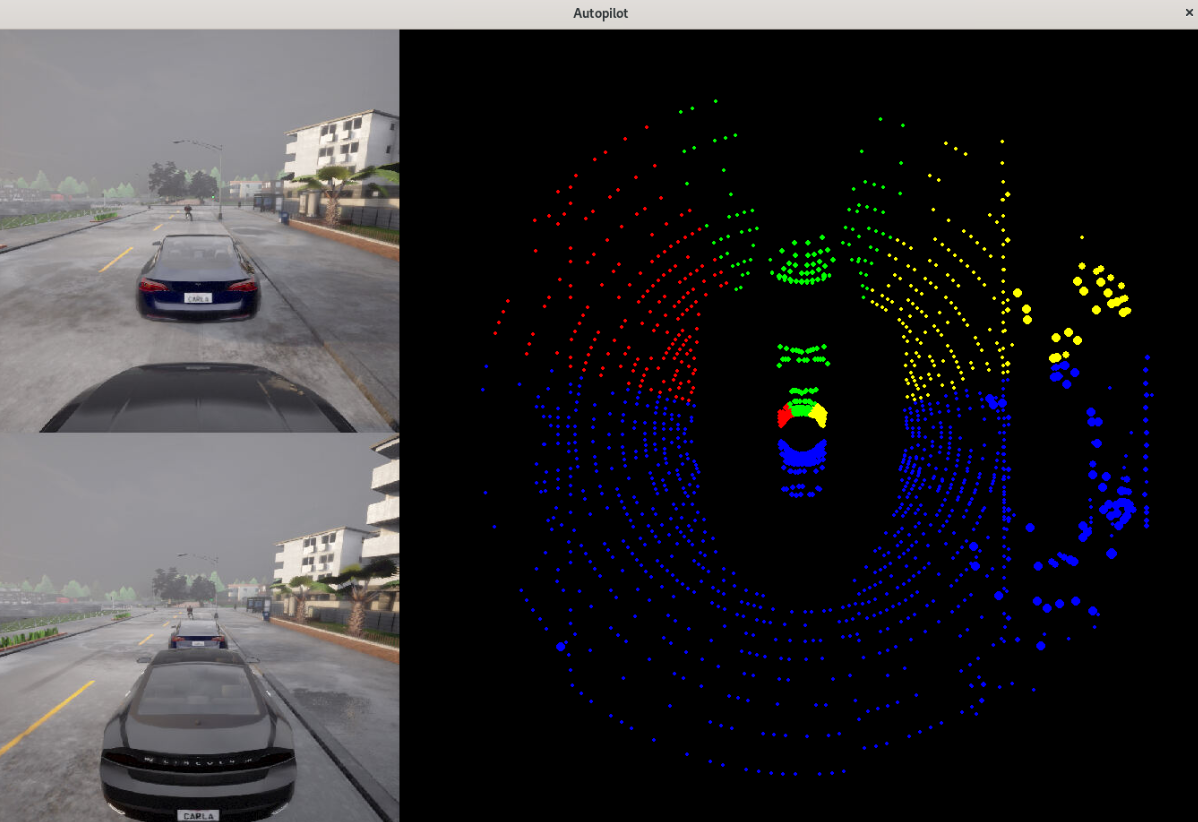
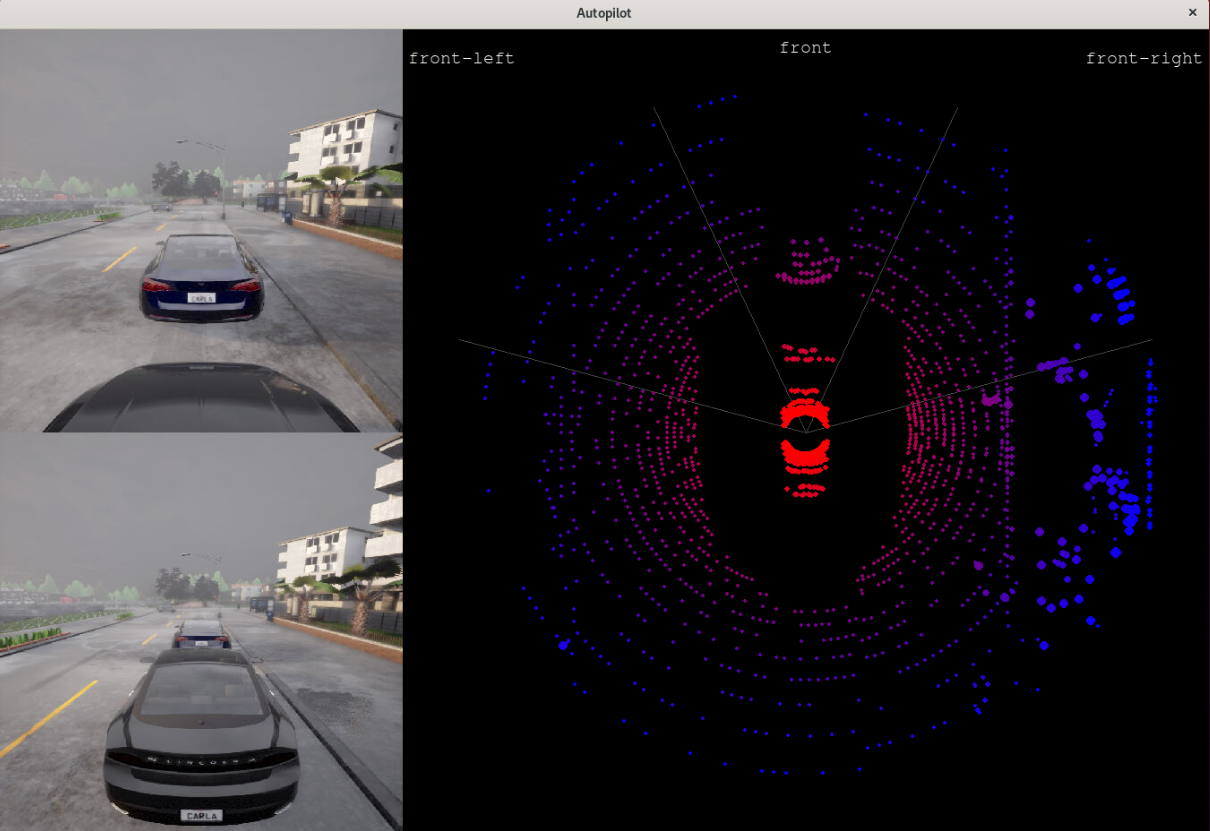
blog

diff --git a/src/configcarla.py b/src/configcarla.py
@@ -233,13 +233,13 @@ class Lidar(Sensor):
             self.screen.blit(self.sub_screen, self.rect)
 
     def obstacle_front_right(self):
-        return self.std_min >= self.std_zones[2]
+        return self.std_min >= self.std_zones[RIGHT]
 
     def obstacle_front_left(self):
-        return self.std_min >= self.std_zones[0]
+        return self.std_min >= self.std_zones[LEFT]
     
     def obstacle_front(self):
-        return self.std_min >= self.std_zones[1]
+        return self.std_min >= self.std_zones[FRONT]
 
 class Vehicle_sensors:
     def __init__(self, vehicle:carla.Vehicle, world:carla.World, screen:pygame.Surface):

diff --git a/docs/_posts/2024-03-13-Autopilot.md b/docs/_posts/2024-03-13-Autopilot.md
@@ -21,40 +21,51 @@ def traffic_manager(client:carla.Client, vehicles:List[carla.Vehicle], port:int=
 
 ## LIDAR
 
-Para visualizar adecuadamente los datos del láser, hemos desarrollado una nueva clase ***Lidar*** heredada de la *Sensor*. Al igual que en la implementación para la cámara, hemos agregado nuevos parámetros en el constructor para la visualización y sobrescrito la función *process_data()*, la cual visualiza el laser y ... .
+Para visualizar adecuadamente los datos del láser, hemos desarrollado una nueva clase ***Lidar*** heredada de la *Sensor*. Al igual que en la implementación para la cámara, hemos agregado nuevos parámetros en el constructor para la visualización y sobrescrito la función *process_data()*. Esta función se encarga de visualizar el láser y actualizar las estadísticas relevantes a la zona frontal del láser, las cuales nos serán útiles para la detección de obstáculos.
 
-[-165.0, -115.0, -65.0, -15.0]
+```python
+class Lidar(Sensor): 
+    def __init__(self, size:Tuple[int, int], init:Tuple[int, int], sensor:carla.Sensor,
+                 scale:int, front_angle:int, yaw:float, screen:pygame.Surface)
+    def _get_back_image(self)
 
-### Visualizacion
+    def _interpolate_thickness(self, num:float, min:float, max:float)
+    def _interpolate_color(self, num:float, min:float, max:float)
+
+    def _write_text(self, text:str, img:pygame.Surface, point:Tuple[int, int], side:int)
+    def _update_stats(self, dist:List[float], y:List[float], zone:int)
+    def _get_zone(self, x:float, y:float)
+
+    def process_data(self):
+
+    def obstacle_front_right(self)
+    def obstacle_front_left(self)
+    def obstacle_front(self)
+```
+
 En primer lugar, es necesario transformar los datos del láser en una matriz de matrices, donde cada submatriz almacena las coordenadas *x*, *y*, *z* y la intensidad respectivamente. Cada una de estas submatrices representa un punto.
 ```python
 lidar_data = np.copy(np.frombuffer(self.data.raw_data, dtype=np.dtype('f4')))
 lidar_data = np.reshape(lidar_data, (int(lidar_data.shape[0] / 4), 4))
 ```
 
-Para mejorar la percepción visual, hemos interpolado el color de cada punto según su intensidad y el tamaño del punto según su altura. A continuación, se presentan varios ejemplos en diferentes situaciones:
+### Visualización
 
-<figure class="align-center" style="max-width: 100%">
-  <figcaption style="font-size: larger">Coche delante</figcaption> 
-  <img src="{{ site.url }}{{ site.baseurl }}/images/car_lidar_front.png" alt="">
+Para le representación del láser dibujaremos cada unos de etos puntos en 2D (x, y). Para mejorar la percepción visual, hemos interpolado el color de cada punto según su intensidad y el tamaño del punto según su altura.
+
+Para representar el láser, graficaremos cada uno de sus puntos en un plano 2D con coordenadas *x*, *y*. Con el fin de mejorar la percepción visual, hemos interpolado el color de cada punto según su intensidad y el tamaño del punto según su altura.
+<figure class="align-center" style="max-width: 70%">
+  <img src="{{ site.url }}{{ site.baseurl }}/images/autopilot/interpolate.png" alt="">
 </figure>
 
-<figure class="align-center" style="max-width: 100%">
-  <figcaption style="font-size: larger">Coche a un lado</figcaption> 
-  <img src="{{ site.url }}{{ site.baseurl }}/images/car_lidar_side.png" alt="">
-</figure>
+### Zona frontal
 
-<figure class="align-center" style="max-width: 100%">
-  <figcaption style="font-size: larger">Moto delante</figcaption> 
-  <img src="{{ site.url }}{{ site.baseurl }}/images/motor_lidar.png" alt="">
-</figure>
+[-165.0, -115.0, -65.0, -15.0]
 
-<figure class="align-center" style="max-width: 100%">
-  <img src="{{ site.url }}{{ site.baseurl }}/images/prueba.png" alt="">
-</figure>
+#### Cálculo de estadísticas
 
-### Deteccion frontal
+#### Detección de obstáculos
 
 ## Demo
 
-<iframe width="560" height="315" src="https://www.youtube.com/embed/h7hmnZ9t0Xs?si=VqMgGGDzFtJJ-IDO" title="YouTube video player" frameborder="0" allow="accelerometer; autoplay; clipboard-write; encrypted-media; gyroscope; picture-in-picture; web-share" allowfullscreen></iframe>
+
